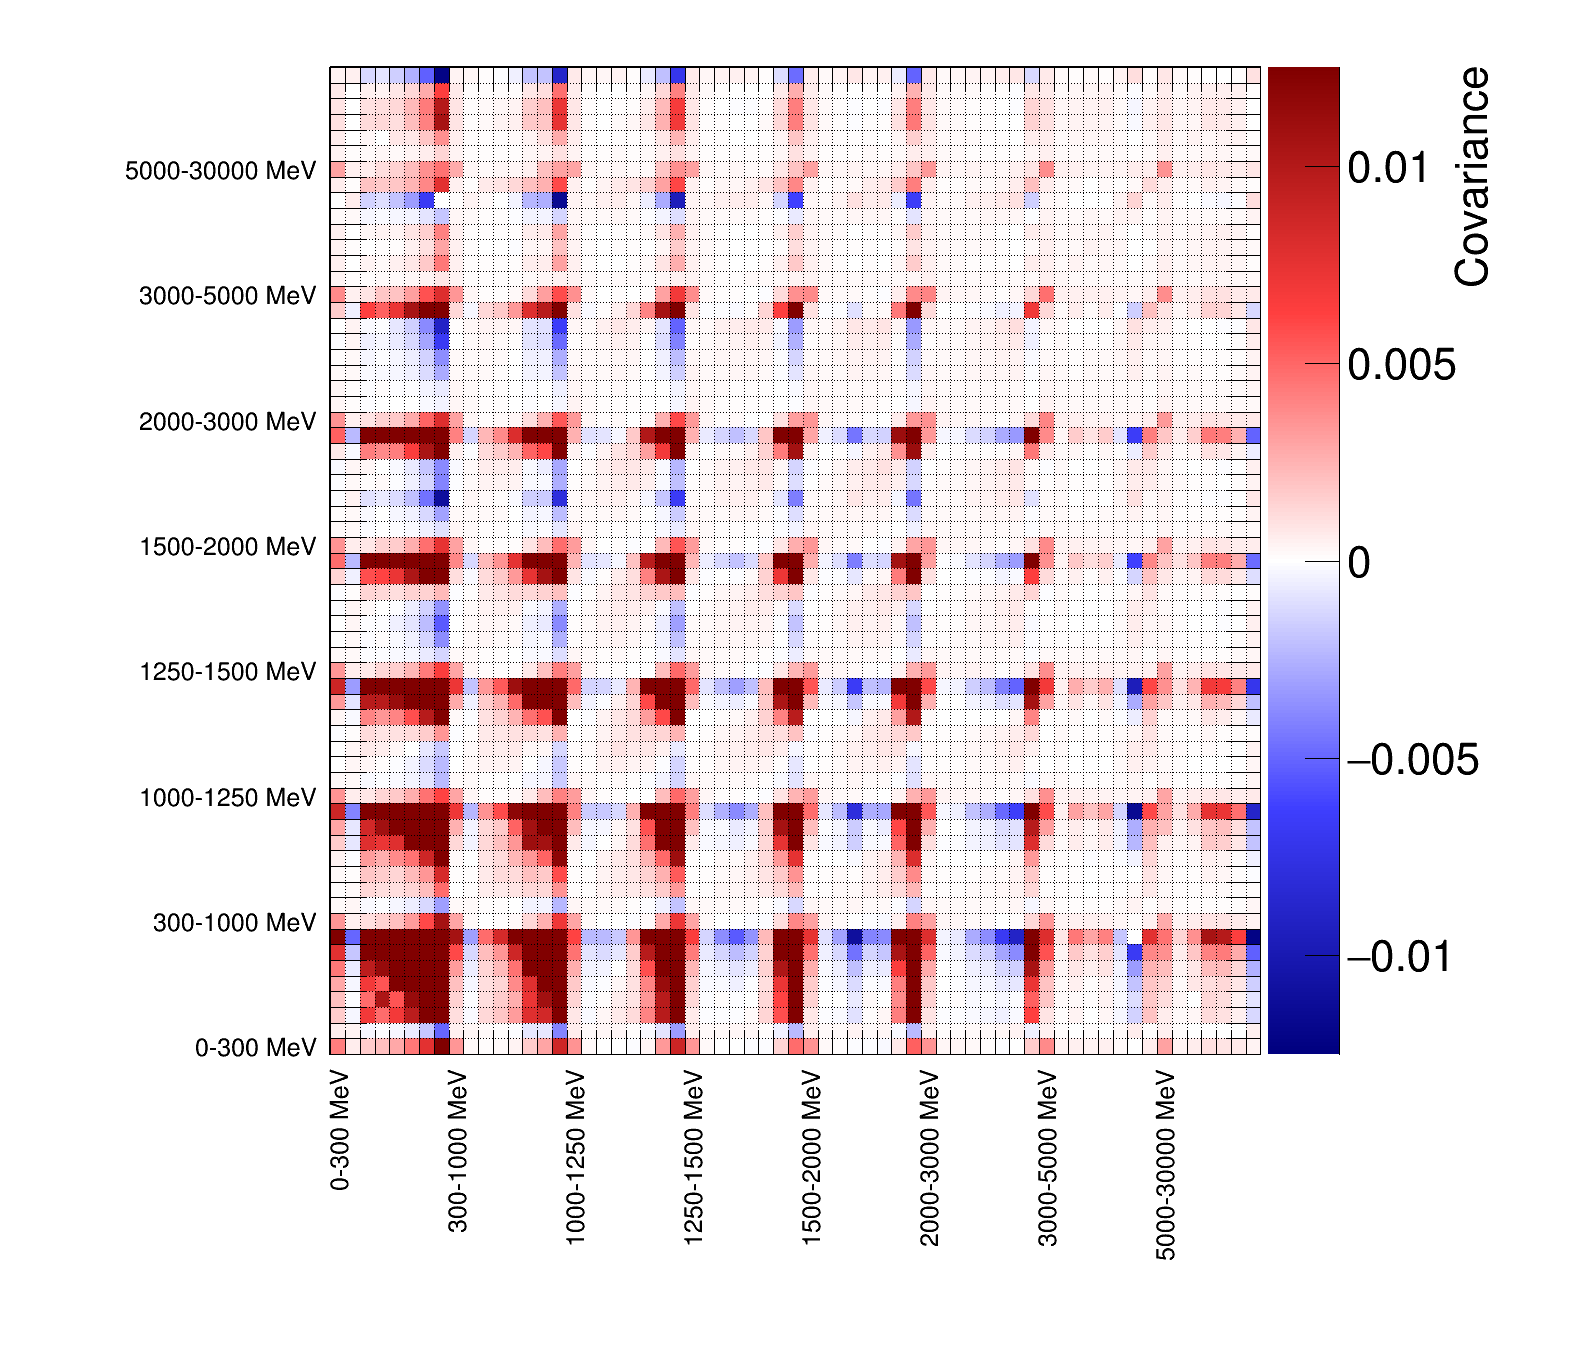
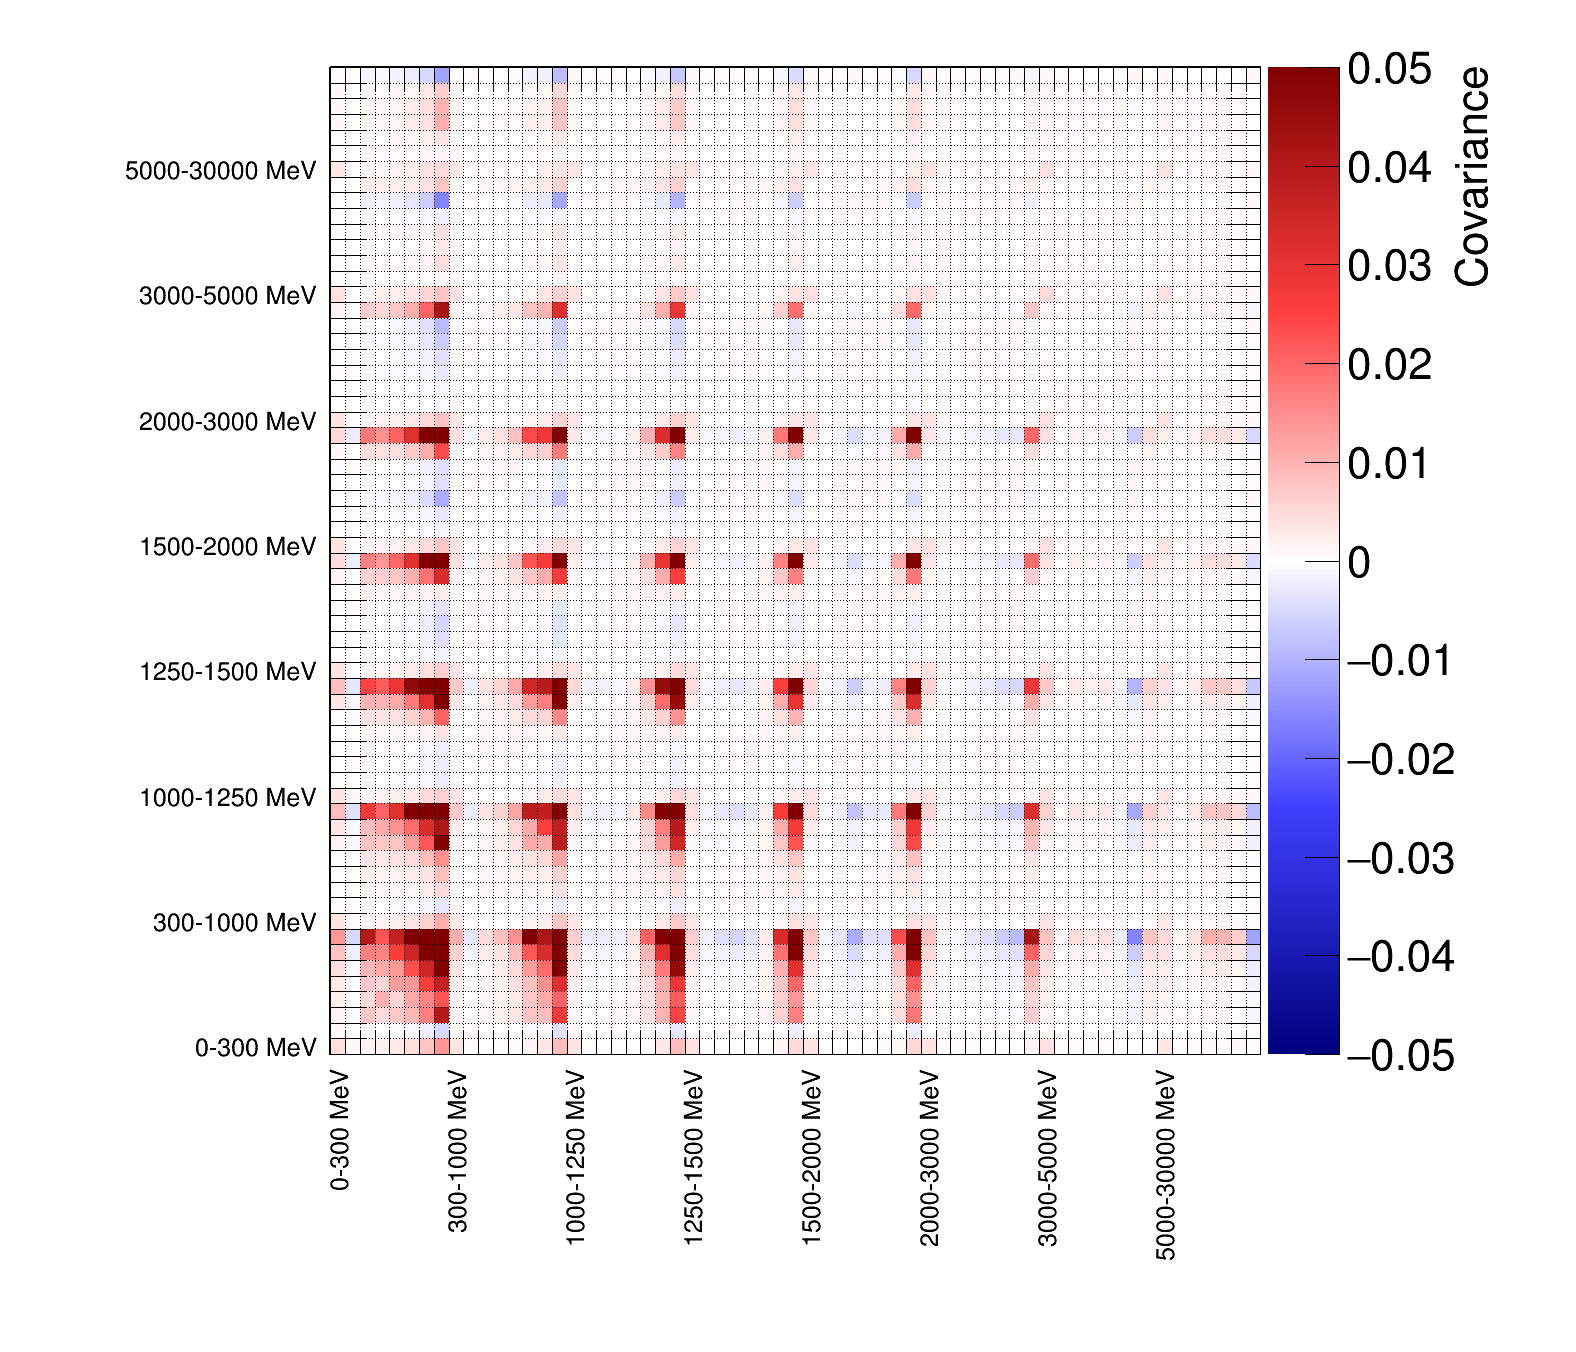
actually change z axis this time

diff --git a/plottingScripts/detcov574.C b/plottingScripts/detcov574.C
@@ -102,6 +102,8 @@ void detcov574(std::string file0) {
   cov->GetYaxis()->SetBinLabel(49,"3000-5000 MeV");
   cov->GetYaxis()->SetBinLabel(57,"5000-30000 MeV");
 
+  cov->GetZaxis()->SetRangeUser(-0.05,0.05);
+
   cov->Draw("colz");
   c->SaveAs("detcov574_1sample.png");
  }
